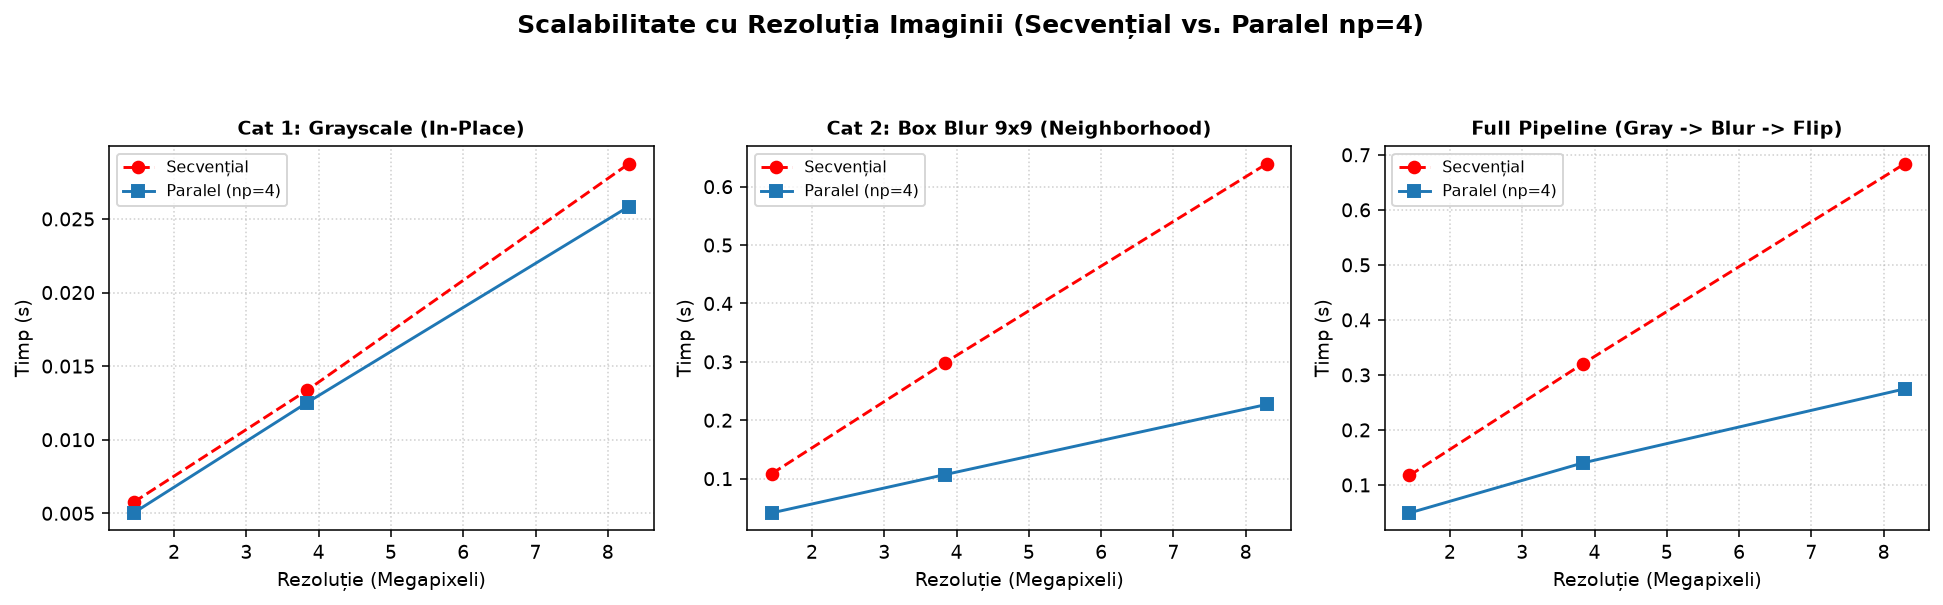
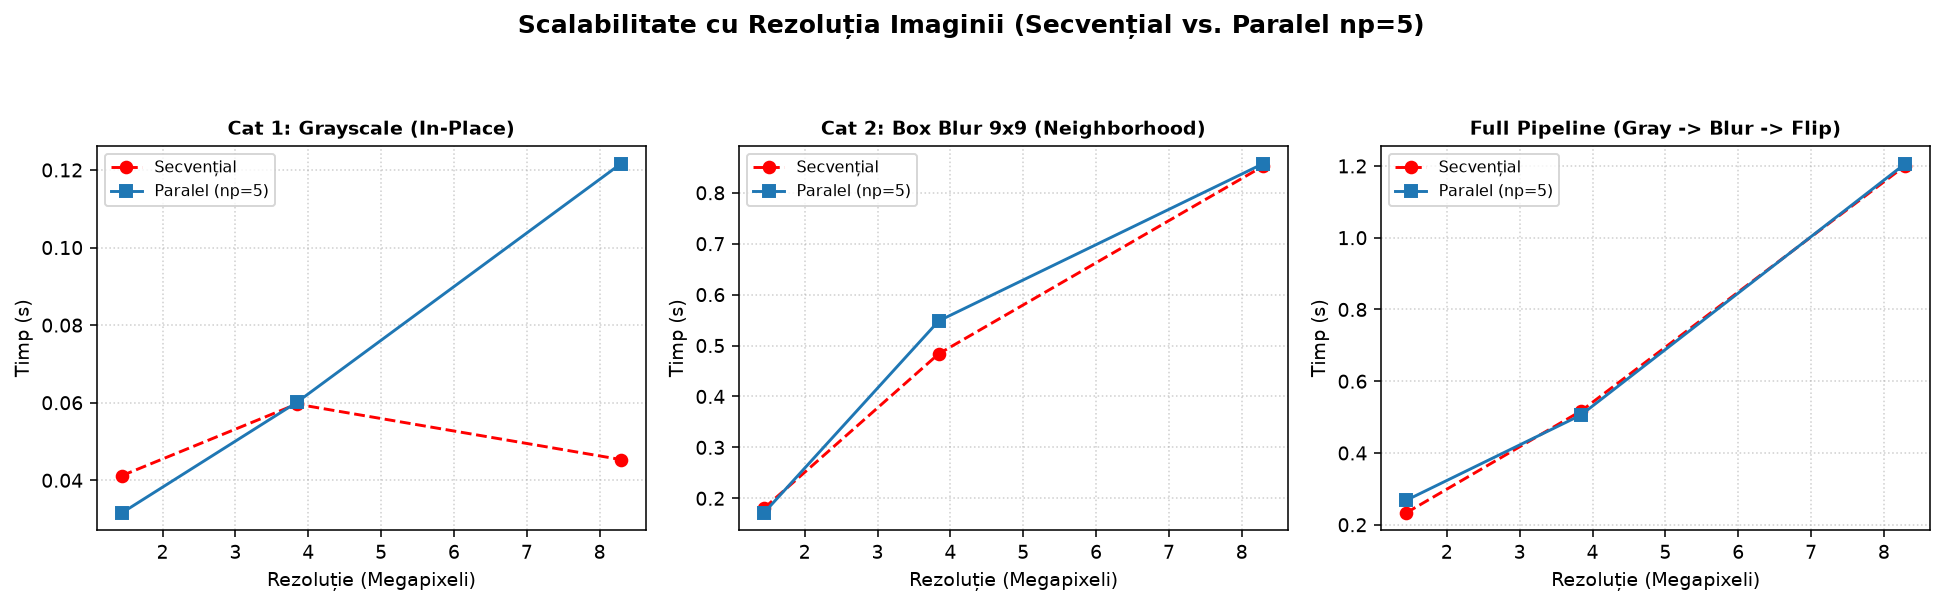
Fix benchmark strategy coverage and MPI timing reporting

diff --git a/HW1/benchmark.py b/HW1/benchmark.py
@@ -175,7 +175,8 @@ def run_benchmark_suite(hosts=None):
 
     max_label, max_w, max_h = resolutions[-1]
     max_img = os.path.join(IMG_DIR, f"sample_{max_label}.ppm")
-    mid_np = 4
+    # Four workers form a 2x2 grid in static_2d.
+    mid_np = 5
 
     jobs = []
     for op in ["grayscale", "blur", "rotate90", "grayscale,blur,flip"]:
@@ -221,6 +222,8 @@ def run_benchmark_suite(hosts=None):
                 cur += 1
 
             avg_tot = sum(t_tot) / len(t_tot)
+            # Coordinator MPI calls include waits and overlap worker computation.
+            avg_comm = sum(t_comm) / len(t_comm)
             avg_pack = sum(t_pack) / len(t_pack)
             avg_comp = sum(t_comp) / len(t_comp)
             mp = round((w_px * h_px) / 1e6, 2)
@@ -235,8 +238,6 @@ def run_benchmark_suite(hosts=None):
                 base = seq_map.get((res_label, op), avg_tot)
                 speedup = base / avg_tot if avg_tot > 0 else 1.0
                 eff = speedup / workers if workers > 0 else 0.0
-                # Pure communication overhead (excluding computation and pack/unpack)
-                avg_comm = max(0.0001, avg_tot - avg_comp - avg_pack)
 
             last_str = f"{avg_tot:.3f}s (pack={avg_pack:.4f}s, {speedup:.2f}x)"
             TermUI.progress(cur, total_runs, t0, prefix="Finalizat", stat=last_str)
@@ -376,11 +377,11 @@ def generate_detailed_report(results, max_res_label, mid_np, hosts, sample_outpu
         pack_blur.append(r["avg_pack_s"] if r else 0)
         comm_blur.append(r["avg_comm_s"] if r else 0)
 
-    b_pack_blur = np.array(comp_blur)
-    b_comm_blur = b_pack_blur + np.array(pack_blur)
-    ax4a.bar(range(len(modes_test)), comp_blur, label="Calcul CPU (Workers)", color="#2A6F97")
-    ax4a.bar(range(len(modes_test)), pack_blur, bottom=b_pack_blur, label="Pack / Unpack Submatrice", color="#E09F3E")
-    ax4a.bar(range(len(modes_test)), comm_blur, bottom=b_comm_blur, label="Comunicație MPI + Sincronizare", color="#9E2A2B")
+    positions = np.arange(len(modes_test))
+    bar_width = 0.25
+    ax4a.bar(positions - bar_width, comp_blur, width=bar_width, label="Calcul CPU maxim pe worker", color="#2A6F97")
+    ax4a.bar(positions, pack_blur, width=bar_width, label="Pack / Unpack cu alocare", color="#E09F3E")
+    ax4a.bar(positions + bar_width, comm_blur, width=bar_width, label="Apeluri MPI cu așteptare", color="#9E2A2B")
     ax4a.set_xticks(range(len(modes_test)))
     ax4a.set_xticklabels(modes_test)
     ax4a.set_title("Box Blur (Calcul Intensiv per Pixel)", fontweight="bold", fontsize=10)
@@ -395,11 +396,11 @@ def generate_detailed_report(results, max_res_label, mid_np, hosts, sample_outpu
         pack_pipe.append(r["avg_pack_s"] if r else 0)
         comm_pipe.append(r["avg_comm_s"] if r else 0)
 
-    b_pack_pipe = np.array(comp_pipe)
-    b_comm_pipe = b_pack_pipe + np.array(pack_pipe)
-    ax4b.bar(range(len(modes_test)), comp_pipe, label="Calcul CPU (Workers)", color="#2A6F97")
-    ax4b.bar(range(len(modes_test)), pack_pipe, bottom=b_pack_pipe, label="Pack / Unpack Submatrice", color="#E09F3E")
-    ax4b.bar(range(len(modes_test)), comm_pipe, bottom=b_comm_pipe, label="Comunicație MPI + Sincronizare", color="#9E2A2B")
+    positions = np.arange(len(modes_test))
+    bar_width = 0.25
+    ax4b.bar(positions - bar_width, comp_pipe, width=bar_width, label="Calcul CPU maxim pe worker", color="#2A6F97")
+    ax4b.bar(positions, pack_pipe, width=bar_width, label="Pack / Unpack cu alocare", color="#E09F3E")
+    ax4b.bar(positions + bar_width, comm_pipe, width=bar_width, label="Apeluri MPI cu așteptare", color="#9E2A2B")
     ax4b.set_xticks(range(len(modes_test)))
     ax4b.set_xticklabels(modes_test)
     ax4b.set_title("Full Pipeline (Înlănțuire Filtre Grafice)", fontweight="bold", fontsize=10)
@@ -412,7 +413,7 @@ def generate_detailed_report(results, max_res_label, mid_np, hosts, sample_outpu
 
     tbl = [
         f"### Tabel Sintetic al Rezultatelor Măsurate (Rezoluție: `{max_res_label}`)\n\n",
-        "| Operație | Mod Paralelizare | Procese (`np`) | Workers | Timp Total (s) | Calcul CPU (s) | Pack/Unpack (s) | Comunicație MPI (s) | Speedup ($S_p$) |\n",
+        "| Operație | Mod Paralelizare | Procese (`np`) | Workers | Timp Total (s) | Calcul CPU (s) | Pack/Unpack (s) | Apeluri MPI cu așteptare (s) | Speedup ($S_p$) |\n",
         "| :--- | :--- | :---: | :---: | :---: | :---: | :---: | :---: | :---: |\n"
     ]
     for r in results:
@@ -457,9 +458,9 @@ def generate_detailed_report(results, max_res_label, mid_np, hosts, sample_outpu
         figure3,
         (
             "## 4. Comparația Strategiilor de Divizare (1D vs. 2D) și Load-Balancing (Static vs. Dinamic)\n"
-            "- **Divizare 1D vs. 2D:** Divizarea 1D orizontală este structural superioară divizării 2D în dale, deoarece ordinea *row-major* din C permite citirea directă a memoriei fără overhead-ul de împachetare (`pack_submatrix`) vizibil în bara portocalie a modului `static_2d`.\n"
-            "- **Static vs. Dinamic:** Deși `static_1d` transmite mai puține mesaje, **`dynamic_1d` obține cel mai bun timp de execuție**. Împărțirea în *chunk*-uri mai mici aduce două avantaje majore: o localitate a memoriei cache (L2/L3) superioară și eliminarea timpilor morți cauzați de fluctuațiile de frecvență ale nucleelor CPU (straggler effect).\n"
-            "- **Comportament pe cluster:** Avantajul modului dinamic va fi și mai pronunțat la conectarea a două laptopuri cu procesoare diferite."
+            f"Comparația folosește {mid_np - 1} workeri și un coordonator. Modul `static_2d` formează o grilă 2×2.\n\n"
+            "Barele sunt alăturate deoarece intervalele măsurate se suprapun. Timpul apelurilor MPI este măsurat pe coordonator și include așteptarea rezultatelor de la workeri. Calculul CPU reprezintă timpul cumulat maxim pe un worker. Suma acestor valori nu reprezintă timpul total.\n\n"
+            "Pack/unpack include alocarea bufferelor temporare. Feliile care ocupă întreaga lățime sunt transmise direct, deci pot avea timp de pack/unpack zero. Dalele 2D necesită copierea rândurilor în buffere contigue și reasamblarea rezultatului."
         ),
         figure4,
         "".join(tbl)

diff --git a/HW1/mpi_image_proc.c b/HW1/mpi_image_proc.c
@@ -68,8 +68,8 @@ typedef struct {
  * All fields exclude image I/O, worker shutdown, and the final timing reduction. */
 typedef struct {
   double total;       /* Coordinator execution intervals across the pipeline. */
-  double transfer;    /* Pure blocking MPI_Send / MPI_Recv time on rank 0. */
-  double pack_unpack; /* Exact time spent in pack_submatrix & unpack_submatrix. */
+  double transfer;    /* Blocking MPI time on rank 0, including worker waits. */
+  double pack_unpack; /* Tile packing/unpacking, including scratch allocation. */
   double computation; /* Local pixel processing; take MPI_MAX at shutdown. */
 } ExecutionTiming;
 

diff --git a/HW1/experimental_study.md b/HW1/experimental_study.md
@@ -30,45 +30,47 @@ Timpul de execuție crește liniar cu numărul de pixeli, conform complexități
 ![Scalabilitatea cu rezoluția imaginii](benchmark_figures/resolution_scaling.png)
 
 ## 4. Comparația Strategiilor de Divizare (1D vs. 2D) și Load-Balancing (Static vs. Dinamic)
-- **Divizare 1D vs. 2D:** Divizarea 1D orizontală este structural superioară divizării 2D în dale, deoarece ordinea *row-major* din C permite citirea directă a memoriei fără overhead-ul de împachetare (`pack_submatrix`) vizibil în bara portocalie a modului `static_2d`.
-- **Static vs. Dinamic:** Deși `static_1d` transmite mai puține mesaje, **`dynamic_1d` obține cel mai bun timp de execuție**. Împărțirea în *chunk*-uri mai mici aduce două avantaje majore: o localitate a memoriei cache (L2/L3) superioară și eliminarea timpilor morți cauzați de fluctuațiile de frecvență ale nucleelor CPU (straggler effect).
-- **Comportament pe cluster:** Avantajul modului dinamic va fi și mai pronunțat la conectarea a două laptopuri cu procesoare diferite.
+Comparația folosește 4 workeri și un coordonator. Modul `static_2d` formează o grilă 2×2.
+
+Barele sunt alăturate deoarece intervalele măsurate se suprapun. Timpul apelurilor MPI este măsurat pe coordonator și include așteptarea rezultatelor de la workeri. Calculul CPU reprezintă timpul cumulat maxim pe un worker. Suma acestor valori nu reprezintă timpul total.
+
+Pack/unpack include alocarea bufferelor temporare. Feliile care ocupă întreaga lățime sunt transmise direct, deci pot avea timp de pack/unpack zero. Dalele 2D necesită copierea rândurilor în buffere contigue și reasamblarea rezultatului.
 
 ![Comparația strategiilor de divizare](benchmark_figures/partition_strategies.png)
 
 ### Tabel Sintetic al Rezultatelor Măsurate (Rezoluție: `8MP`)
 
-| Operație | Mod Paralelizare | Procese (`np`) | Workers | Timp Total (s) | Calcul CPU (s) | Pack/Unpack (s) | Comunicație MPI (s) | Speedup ($S_p$) |
+| Operație | Mod Paralelizare | Procese (`np`) | Workers | Timp Total (s) | Calcul CPU (s) | Pack/Unpack (s) | Apeluri MPI cu așteptare (s) | Speedup ($S_p$) |
 | :--- | :--- | :---: | :---: | :---: | :---: | :---: | :---: | :---: |
-| `grayscale` | `seq` | 1 | 1 | **0.0287s** | 0.0287s | 0.0000s | 0.0000s | **1.00x** |
-| `grayscale` | `static_1d` | 2 | 1 | **0.0484s** | 0.0282s | 0.0000s | 0.0203s | **0.59x** |
-| `grayscale` | `static_1d` | 3 | 2 | **0.0319s** | 0.0145s | 0.0000s | 0.0174s | **0.90x** |
-| `grayscale` | `static_1d` | 4 | 3 | **0.0258s** | 0.0104s | 0.0000s | 0.0155s | **1.11x** |
-| `grayscale` | `static_1d` | 5 | 4 | **0.0249s** | 0.0088s | 0.0000s | 0.0162s | **1.15x** |
-| `grayscale` | `static_1d` | 6 | 5 | **0.0235s** | 0.0070s | 0.0000s | 0.0165s | **1.22x** |
-| `grayscale` | `static_1d` | 8 | 7 | **0.0263s** | 0.0053s | 0.0000s | 0.0210s | **1.09x** |
-| `blur` | `seq` | 1 | 1 | **0.6391s** | 0.6391s | 0.0000s | 0.0000s | **1.00x** |
-| `blur` | `static_1d` | 2 | 1 | **0.6538s** | 0.6311s | 0.0000s | 0.0227s | **0.98x** |
-| `blur` | `static_1d` | 3 | 2 | **0.3374s** | 0.3195s | 0.0000s | 0.0178s | **1.89x** |
-| `blur` | `static_1d` | 4 | 3 | **0.2271s** | 0.2122s | 0.0000s | 0.0149s | **2.81x** |
-| `blur` | `static_1d` | 5 | 4 | **0.1803s** | 0.1646s | 0.0000s | 0.0158s | **3.54x** |
-| `blur` | `static_1d` | 6 | 5 | **0.1471s** | 0.1318s | 0.0000s | 0.0153s | **4.35x** |
-| `blur` | `static_1d` | 8 | 7 | **0.1144s** | 0.0984s | 0.0000s | 0.0160s | **5.59x** |
-| `rotate90` | `seq` | 1 | 1 | **0.0391s** | 0.0391s | 0.0000s | 0.0000s | **1.00x** |
-| `rotate90` | `static_1d` | 2 | 1 | **0.0593s** | 0.0379s | 0.0000s | 0.0215s | **0.66x** |
-| `rotate90` | `static_1d` | 3 | 2 | **0.0481s** | 0.0188s | 0.0117s | 0.0176s | **0.81x** |
-| `rotate90` | `static_1d` | 4 | 3 | **0.0369s** | 0.0125s | 0.0090s | 0.0154s | **1.06x** |
-| `rotate90` | `static_1d` | 5 | 4 | **0.0337s** | 0.0097s | 0.0081s | 0.0159s | **1.16x** |
-| `rotate90` | `static_1d` | 6 | 5 | **0.0319s** | 0.0075s | 0.0077s | 0.0167s | **1.22x** |
-| `rotate90` | `static_1d` | 8 | 7 | **0.0302s** | 0.0059s | 0.0050s | 0.0193s | **1.29x** |
-| `grayscale,blur,flip` | `seq` | 1 | 1 | **0.6837s** | 0.6837s | 0.0000s | 0.0000s | **1.00x** |
-| `grayscale,blur,flip` | `static_1d` | 2 | 1 | **0.7513s** | 0.6798s | 0.0000s | 0.0715s | **0.91x** |
-| `grayscale,blur,flip` | `static_1d` | 3 | 2 | **0.3969s** | 0.3467s | 0.0000s | 0.0502s | **1.72x** |
-| `grayscale,blur,flip` | `static_1d` | 4 | 3 | **0.2746s** | 0.2299s | 0.0000s | 0.0446s | **2.49x** |
-| `grayscale,blur,flip` | `static_1d` | 5 | 4 | **0.2225s** | 0.1782s | 0.0000s | 0.0442s | **3.07x** |
-| `grayscale,blur,flip` | `static_1d` | 6 | 5 | **0.1911s** | 0.1449s | 0.0000s | 0.0462s | **3.58x** |
-| `grayscale,blur,flip` | `static_1d` | 8 | 7 | **0.1560s** | 0.1055s | 0.0000s | 0.0505s | **4.38x** |
-| `blur` | `static_2d` | 4 | 3 | **0.2286s** | 0.2128s | 0.0000s | 0.0158s | **2.80x** |
-| `blur` | `dynamic_1d` | 4 | 3 | **0.2238s** | 0.2126s | 0.0000s | 0.0113s | **2.86x** |
-| `grayscale,blur,flip` | `static_2d` | 4 | 3 | **0.2742s** | 0.2302s | 0.0000s | 0.0440s | **2.49x** |
-| `grayscale,blur,flip` | `dynamic_1d` | 4 | 3 | **0.2651s** | 0.2273s | 0.0000s | 0.0378s | **2.58x** |
+| `grayscale` | `seq` | 1 | 1 | **0.0453s** | 0.0453s | 0.0000s | 0.0000s | **1.00x** |
+| `grayscale` | `static_1d` | 2 | 1 | **0.0806s** | 0.0511s | 0.0000s | 0.0806s | **0.56x** |
+| `grayscale` | `static_1d` | 3 | 2 | **0.0833s** | 0.0484s | 0.0000s | 0.0833s | **0.54x** |
+| `grayscale` | `static_1d` | 4 | 3 | **0.1078s** | 0.0362s | 0.0000s | 0.1078s | **0.42x** |
+| `grayscale` | `static_1d` | 5 | 4 | **0.1216s** | 0.0858s | 0.0000s | 0.1216s | **0.37x** |
+| `grayscale` | `static_1d` | 6 | 5 | **0.2064s** | 0.0530s | 0.0000s | 0.2064s | **0.22x** |
+| `grayscale` | `static_1d` | 8 | 7 | **0.1353s** | 0.0381s | 0.0000s | 0.1353s | **0.34x** |
+| `blur` | `seq` | 1 | 1 | **0.8520s** | 0.8520s | 0.0000s | 0.0000s | **1.00x** |
+| `blur` | `static_1d` | 2 | 1 | **1.0613s** | 1.0204s | 0.0000s | 1.0613s | **0.80x** |
+| `blur` | `static_1d` | 3 | 2 | **0.8961s** | 0.8457s | 0.0000s | 0.8961s | **0.95x** |
+| `blur` | `static_1d` | 4 | 3 | **0.7741s** | 0.7029s | 0.0000s | 0.7741s | **1.10x** |
+| `blur` | `static_1d` | 5 | 4 | **0.8569s** | 0.8150s | 0.0000s | 0.8569s | **0.99x** |
+| `blur` | `static_1d` | 6 | 5 | **1.0537s** | 0.9867s | 0.0000s | 1.0537s | **0.81x** |
+| `blur` | `static_1d` | 8 | 7 | **0.9201s** | 0.7888s | 0.0000s | 0.9200s | **0.93x** |
+| `rotate90` | `seq` | 1 | 1 | **0.0999s** | 0.0999s | 0.0000s | 0.0000s | **1.00x** |
+| `rotate90` | `static_1d` | 2 | 1 | **0.1338s** | 0.0883s | 0.0000s | 0.1338s | **0.75x** |
+| `rotate90` | `static_1d` | 3 | 2 | **0.1609s** | 0.0800s | 0.0305s | 0.1285s | **0.62x** |
+| `rotate90` | `static_1d` | 4 | 3 | **0.1506s** | 0.0959s | 0.0238s | 0.1255s | **0.66x** |
+| `rotate90` | `static_1d` | 5 | 4 | **0.1687s** | 0.0945s | 0.0256s | 0.1422s | **0.59x** |
+| `rotate90` | `static_1d` | 6 | 5 | **0.1580s** | 0.1016s | 0.0144s | 0.1429s | **0.63x** |
+| `rotate90` | `static_1d` | 8 | 7 | **0.2152s** | 0.1551s | 0.0176s | 0.1971s | **0.46x** |
+| `grayscale,blur,flip` | `seq` | 1 | 1 | **1.2003s** | 1.2003s | 0.0000s | 0.0000s | **1.00x** |
+| `grayscale,blur,flip` | `static_1d` | 2 | 1 | **1.1126s** | 1.0158s | 0.0000s | 1.1126s | **1.08x** |
+| `grayscale,blur,flip` | `static_1d` | 3 | 2 | **1.0473s** | 0.9335s | 0.0000s | 1.0472s | **1.15x** |
+| `grayscale,blur,flip` | `static_1d` | 4 | 3 | **1.4404s** | 1.1654s | 0.0000s | 1.4403s | **0.83x** |
+| `grayscale,blur,flip` | `static_1d` | 5 | 4 | **1.2060s** | 0.9632s | 0.0000s | 1.2060s | **1.00x** |
+| `grayscale,blur,flip` | `static_1d` | 6 | 5 | **1.3704s** | 1.1360s | 0.0000s | 1.3703s | **0.88x** |
+| `grayscale,blur,flip` | `static_1d` | 8 | 7 | **1.3802s** | 1.0080s | 0.0000s | 1.3802s | **0.87x** |
+| `blur` | `static_2d` | 5 | 4 | **1.1267s** | 0.9893s | 0.0693s | 1.0565s | **0.76x** |
+| `blur` | `dynamic_1d` | 5 | 4 | **0.8657s** | 0.8253s | 0.0000s | 0.8656s | **0.98x** |
+| `grayscale,blur,flip` | `static_2d` | 5 | 4 | **1.6098s** | 1.2644s | 0.1783s | 1.4189s | **0.75x** |
+| `grayscale,blur,flip` | `dynamic_1d` | 5 | 4 | **1.0872s** | 0.8364s | 0.0000s | 1.0871s | **1.10x** |

diff --git a/HW1/README.md b/HW1/README.md
@@ -118,3 +118,13 @@ Programul necesită `mpicc` și `mpirun` și salvează rezultatele în
 `benchmark_results.csv`. Raportul [experimental_study.md](experimental_study.md)
 conține tabele și imagini PNG din `benchmark_figures/`. Include raportul și
 acest director în commit pentru ca GitHub să afișeze graficele.
+
+Comparația strategiilor folosește cinci procese, un coordonator și patru
+workeri, pentru ca `static_2d` să formeze o grilă 2×2.
+
+În CSV, `avg_comm_s` este media timpului măsurat în apelurile MPI ale
+coordonatorului, inclusiv așteptarea workerilor. Acest timp se suprapune cu
+calculul workerilor, deci coloanele de timp nu se adună pentru a obține
+timpul total. `avg_pack_s` include împachetarea, despachetarea și alocarea
+bufferelor temporare. Feliile care ocupă întreaga lățime se transmit direct
+și pot avea `avg_pack_s` egal cu zero.
